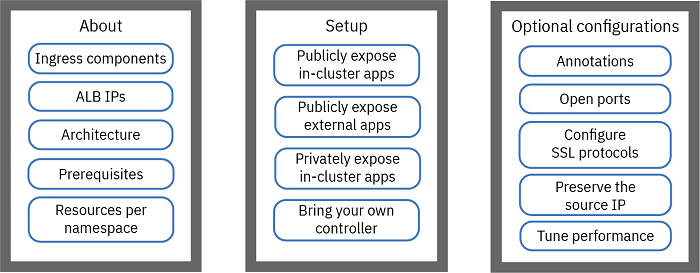
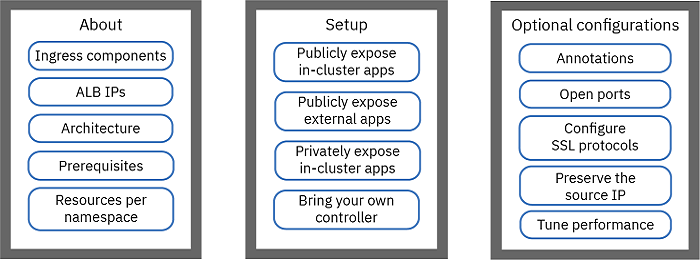
Merge pull request #3263 from alchemy-containers/rlg-ingress

diff --git a/cs_ingress.md b/cs_ingress.md
@@ -28,20 +28,20 @@ Expose multiple apps in your Kubernetes cluster by creating Ingress resources th
 <img src="images/cs_ingress_imagemap.png" usemap="#image-map">
 
 <map name="image-map">
-    <area target="" alt="Ingress components" title="Ingress components" href="#components" coords="63,72,187,96" shape="rect">
-    <area target="" alt="ALB IPs" title="ALB IPs" href="#ips" coords="60,104,187,128" shape="rect">
-    <area target="" alt="Architecture" title="Architecture" href="#architecture-single" coords="60,139,189,164" shape="rect">
-    <area target="" alt="Prerequisites" title="Prerequisites" href="#config_prereqs" coords="59,175,191,198" shape="rect">
-    <area target="" alt="Planning networking for single or multiple namespaces" title="Planning networking for single or multiple namespaces" href="#multiple_namespaces" coords="62,208,189,232" shape="rect">
-    <area target="" alt="Exposing apps that are inside your cluster to the public" title="Exposing apps that are inside your cluster to the public" href="#ingress_expose_public" coords="280,71,409,108" shape="rect">
-    <area target="" alt="Exposing apps that are outside your cluster to the public" title="Exposing apps that are outside your cluster to the public" href="#external_endpoint" coords="283,116,408,148" shape="rect">
-    <area target="" alt="Exposing apps to a private network" title="Exposing apps to a private network" href="#ingress_expose_private" coords="283,157,411,190" shape="rect">
-    <area target="" alt="Bringing your own Ingress controller" title="Bringing your own Ingress controller" href="#user_managed" coords="281,200,408,234" shape="rect">
-    <area target="" alt="Customizing an Ingress resource with annotations" title="Customizing an Ingress resource with annotations" href="#annotations" coords="500,73,634,99" shape="rect">
-    <area target="" alt="Opening ports in the Ingress ALB" title="Opening ports in the Ingress ALB" href="#opening_ingress_ports" coords="500,107,633,132" shape="rect">
-    <area target="" alt="Configuring SSL protocols and SSL ciphers at the HTTP level" title="Configuring SSL protocols and SSL ciphers at the HTTP level" href="#ssl_protocols_ciphers" coords="500,141,635,181" shape="rect">
-    <area target="" alt="Preserving the source IP address" title="Preserving the source IP address" href="#preserve_source_ip" coords="502,187,633,220" shape="rect">
-    <area target="" alt="Tuning ALB performance" title="Tuning ALB performance" href="#perf_tuning" coords="501,231,633,253" shape="rect">
+    <area target="" alt="Ingress components" title="Ingress components" href="#components" coords="28,42,172,69" shape="rect">
+    <area target="" alt="ALB IPs" title="ALB IPs" href="#ips" coords="27,79,171,104" shape="rect">
+    <area target="" alt="Architecture" title="Architecture" href="#architecture-single" coords="31,114,171,140" shape="rect">
+    <area target="" alt="Prerequisites" title="Prerequisites" href="#config_prereqs" coords="28,151,171,176" shape="rect">
+    <area target="" alt="Planning networking for single or multiple namespaces" title="Planning networking for single or multiple namespaces" href="#multiple_namespaces" coords="31,191,172,229" shape="rect">
+    <area target="" alt="Exposing apps that are inside your cluster to the public" title="Exposing apps that are inside your cluster to the public" href="#ingress_expose_public" coords="275,43,418,78" shape="rect">
+    <area target="" alt="Exposing apps that are outside your cluster to the public" title="Exposing apps that are outside your cluster to the public" href="#external_endpoint" coords="275,94,419,128" shape="rect">
+    <area target="" alt="Exposing apps to a private network" title="Exposing apps to a private network" href="#ingress_expose_private" coords="277,141,418,177" shape="rect">
+    <area target="" alt="Bringing your own Ingress controller" title="Bringing your own Ingress controller" href="#user_managed" coords="278,192,416,228" shape="rect">
+    <area target="" alt="Customizing an Ingress resource with annotations" title="Customizing an Ingress resource with annotations" href="#annotations" coords="523,44,670,73" shape="rect">
+    <area target="" alt="Opening ports in the Ingress ALB" title="Opening ports in the Ingress ALB" href="#opening_ingress_ports" coords="521,83,669,105" shape="rect">
+    <area target="" alt="Configuring SSL protocols and SSL ciphers at the HTTP level" title="Configuring SSL protocols and SSL ciphers at the HTTP level" href="#ssl_protocols_ciphers" coords="523,116,669,158" shape="rect">
+    <area target="" alt="Preserving the source IP address" title="Preserving the source IP address" href="#preserve_source_ip" coords="522,167,671,202" shape="rect">
+    <area target="" alt="Tuning ALB performance" title="Tuning ALB performance" href="#perf_tuning" coords="524,213,669,237" shape="rect">
 </map>
 
 ## Sample YAMLs

diff --git a/cs_annotations.md b/cs_annotations.md
@@ -1400,6 +1400,7 @@ Because the app uses {{site.data.keyword.appid_short_notm}} for authentication, 
     3. In the **Add web redirect URLs** field, add redirect URLs for your app in the format `http://<hostname>/<app_path>/appid_callback` or `https://<hostname>/<app_path>/appid_callback`.
       * For example, an app that is registered with the IBM Ingress subdomain might look like `https://mycluster.us-south.containers.appdomain.cloud/myapp1path/appid_callback`.
       * An app that is registered with a custom domain might look like `http://mydomain.net/myapp2path/appid_callback`.
+
       {{site.data.keyword.appid_full_notm}} offers a logout function: If `/logout` exists in your {{site.data.keyword.appid_full_notm}} path, cookies are removed and the user is sent back to the login page. To use this function, you must append `/appid_logout` to your domain in the format `https://mycluster.us-south.containers.appdomain.cloud/myapp1path/appid_logout` and include this URL in the redirect URLs list.
       {: note}
 
